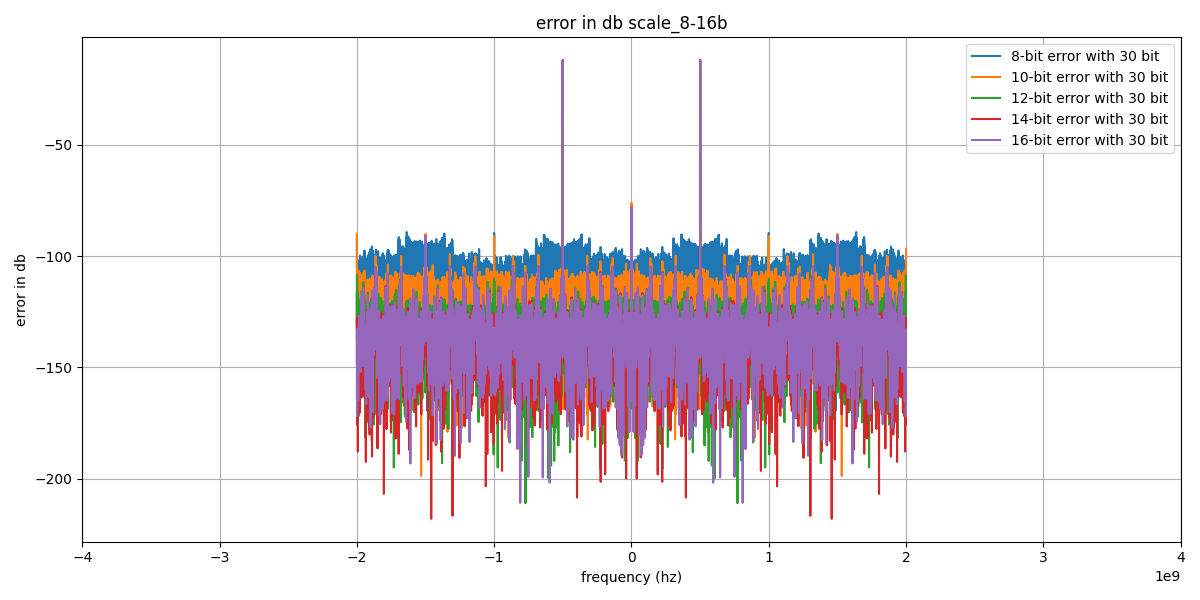
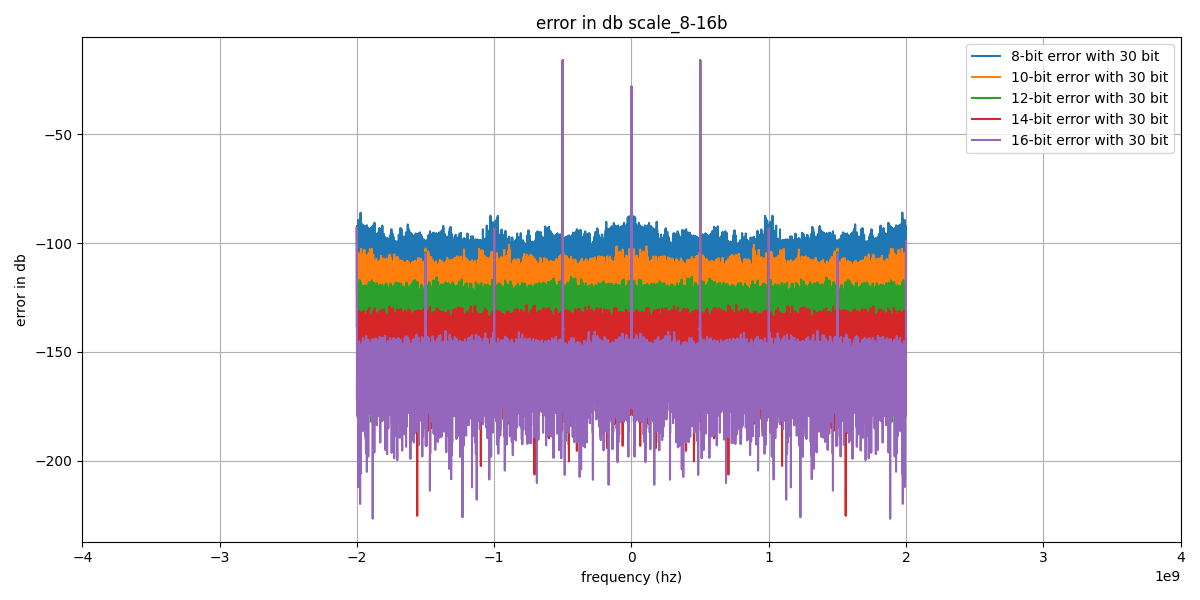
power spectrum for one antenna is done

diff --git a/apsera_sim/truncation_after_fft.py b/apsera_sim/truncation_after_fft.py
@@ -1,10 +1,11 @@
+
 import matplotlib.pyplot as plt
 import numpy as np
 from sine_input import sine_curve
 from adc import sample,adc
 from window import window_bits,window_precision
 from fft_return_complex import fft_complex
-from truncating import truncate
+from truncating import truncate,truncate_after_fft
 
 M = 16
 N = 1024
@@ -14,11 +15,11 @@ n_bits = [8,10,12,14,16,18,20,22,24]
 truncate_bit = 12
 adc_bits = 12
 w_bit = 18
-v_ref = 0.7096 # to keep output power that is adc at 1dBm of input 
+v_ref = 0.7962 # to keep output power that is adc at 2dBm of input 
 f = 5e8
 sampling_rate = 1e12 # for producing sine wave
 adc_sampling_rate = 4e9
-fft_points = 16*2**10
+fft_points = 2**14
 
 # duration such that when sampled we get appropriate no. of points
 duration = fft_points/adc_sampling_rate 
@@ -52,7 +53,33 @@ print("max re (signed 32-bit):", format((re_part_int[index_signal]) & 0xFFFFFFFF
 print("max im (signed 32-bit):", format((im_part_int[index_signal]) & 0xFFFFFFFF, '#034b'))
 
 # from observed values truncating to 24 bits seems to retain fft properties
+# also rounding to 18 bits 
+re_part_trunc,im_part_trunc = truncate_after_fft(re_part_int,im_part_int,fft_points)
 
-re_part_trunc = 
+sq_real = np.square(re_part_trunc)
+sq_im = np.square(im_part_trunc)
+power_spectrum = (np.array(sq_real)+np.array(sq_im))
 
+plt.figure(figsize=(10,4))
+plt.plot(freq,power_spectrum)
+plt.xlim(0,4000e6)
+plt.title("power_spectrum of FFT Output Signal")
+plt.xlabel("freq")
+plt.ylabel("Power")
+plt.grid(True)
+plt.show()
 
+power_spectrum_accu = [0]*len(power_spectrum)
+
+for i in range(0,4095):
+    power_spectrum_accu = power_spectrum + power_spectrum_accu
+ 
+plt.figure(figsize=(10,4))
+plt.plot(freq,power_spectrum_accu)
+plt.xlim(0,2000e6)
+plt.title("power_spectrum and accumalation of FFT Output Signal")
+plt.xlabel("freq")
+plt.ylabel("power_spectrum_accu")
+plt.grid(True)
+plt.show()    
+       

diff --git a/apsera_sim/main.py b/apsera_sim/main.py
@@ -1,5 +1,5 @@
 import matplotlib
-matplotlib.use("TkAgg")
+matplotlib.use('TKAgg')
 import matplotlib.pyplot as plt
 import numpy as np
 from sine_input import sine_curve
@@ -15,7 +15,7 @@ alpha = 1
 n_bits = [8,10,12,14,16]
 adc_bits = 12
 w_bit = 18
-v_ref = 0.7096 # to keep output power that is adc at 1dBm of input 
+v_ref = 0.7962 # to keep output power that is adc at 2dBm of input 
 f = 5e8
 sampling_rate = 1e12 # for producing sine wave
 adc_sampling_rate = 4e9
@@ -116,7 +116,7 @@ plt.savefig("fft_error_mean_8-16b.png")
 plt.show()
 plt.close()
 
-# from graph we can conclude 10 bit or 12 bit is sufficient truncation as error beyond 12 bit 
+# from graph we can conclude 12 bit or 14 bit is sufficient truncation as error beyond 12 bit 
 # is not reducing by much
 
 

diff --git a/apsera_sim/truncating.py b/apsera_sim/truncating.py
@@ -21,4 +21,17 @@ def truncate(n_bits,windowed_sig):
     # windowed_truncated_final = windowed_truncated/max_int
     
     return windowed_truncated
+
+def truncate_after_fft(re_part_int,im_part_int,fft_points):
+
+    for i in range(fft_points):
+        if re_part_int[i]>=0:
+            re_part_int[i] = (re_part_int[i]%(2**24))//2**6 
+        if re_part_int[i]<0:
+            re_part_int[i] = -((-(re_part_int[i])%(2**24))//2**6)
+        if im_part_int[i]>=0:
+            im_part_int[i] = (im_part_int[i]%(2**24))//2**6        
+        if im_part_int[i]<0:
+            im_part_int[i] = -((-(im_part_int[i])%(2**24))//2**6)
     
+    return re_part_int,im_part_int

diff --git a/apsera_sim/sine_input.py b/apsera_sim/sine_input.py
@@ -3,7 +3,8 @@ import numpy as np
 def sine_curve(f,sampling_rate,duration,v_ref):
     n_samples = int(duration*sampling_rate)
     t = np.linspace(0,duration,n_samples, endpoint= False)
-    sine_sig = (np.sin(2*np.pi*(f)*t)+1)*(v_ref/2) # offset and scaling to fit adc range 
+    scaling_1dBm = 0.3546
+    sine_sig = scaling_1dBm*((np.sin(2*np.pi*(f)*t)))+scaling_1dBm # offset and scaling to fit adc range 
     
     return t,sine_sig
 
